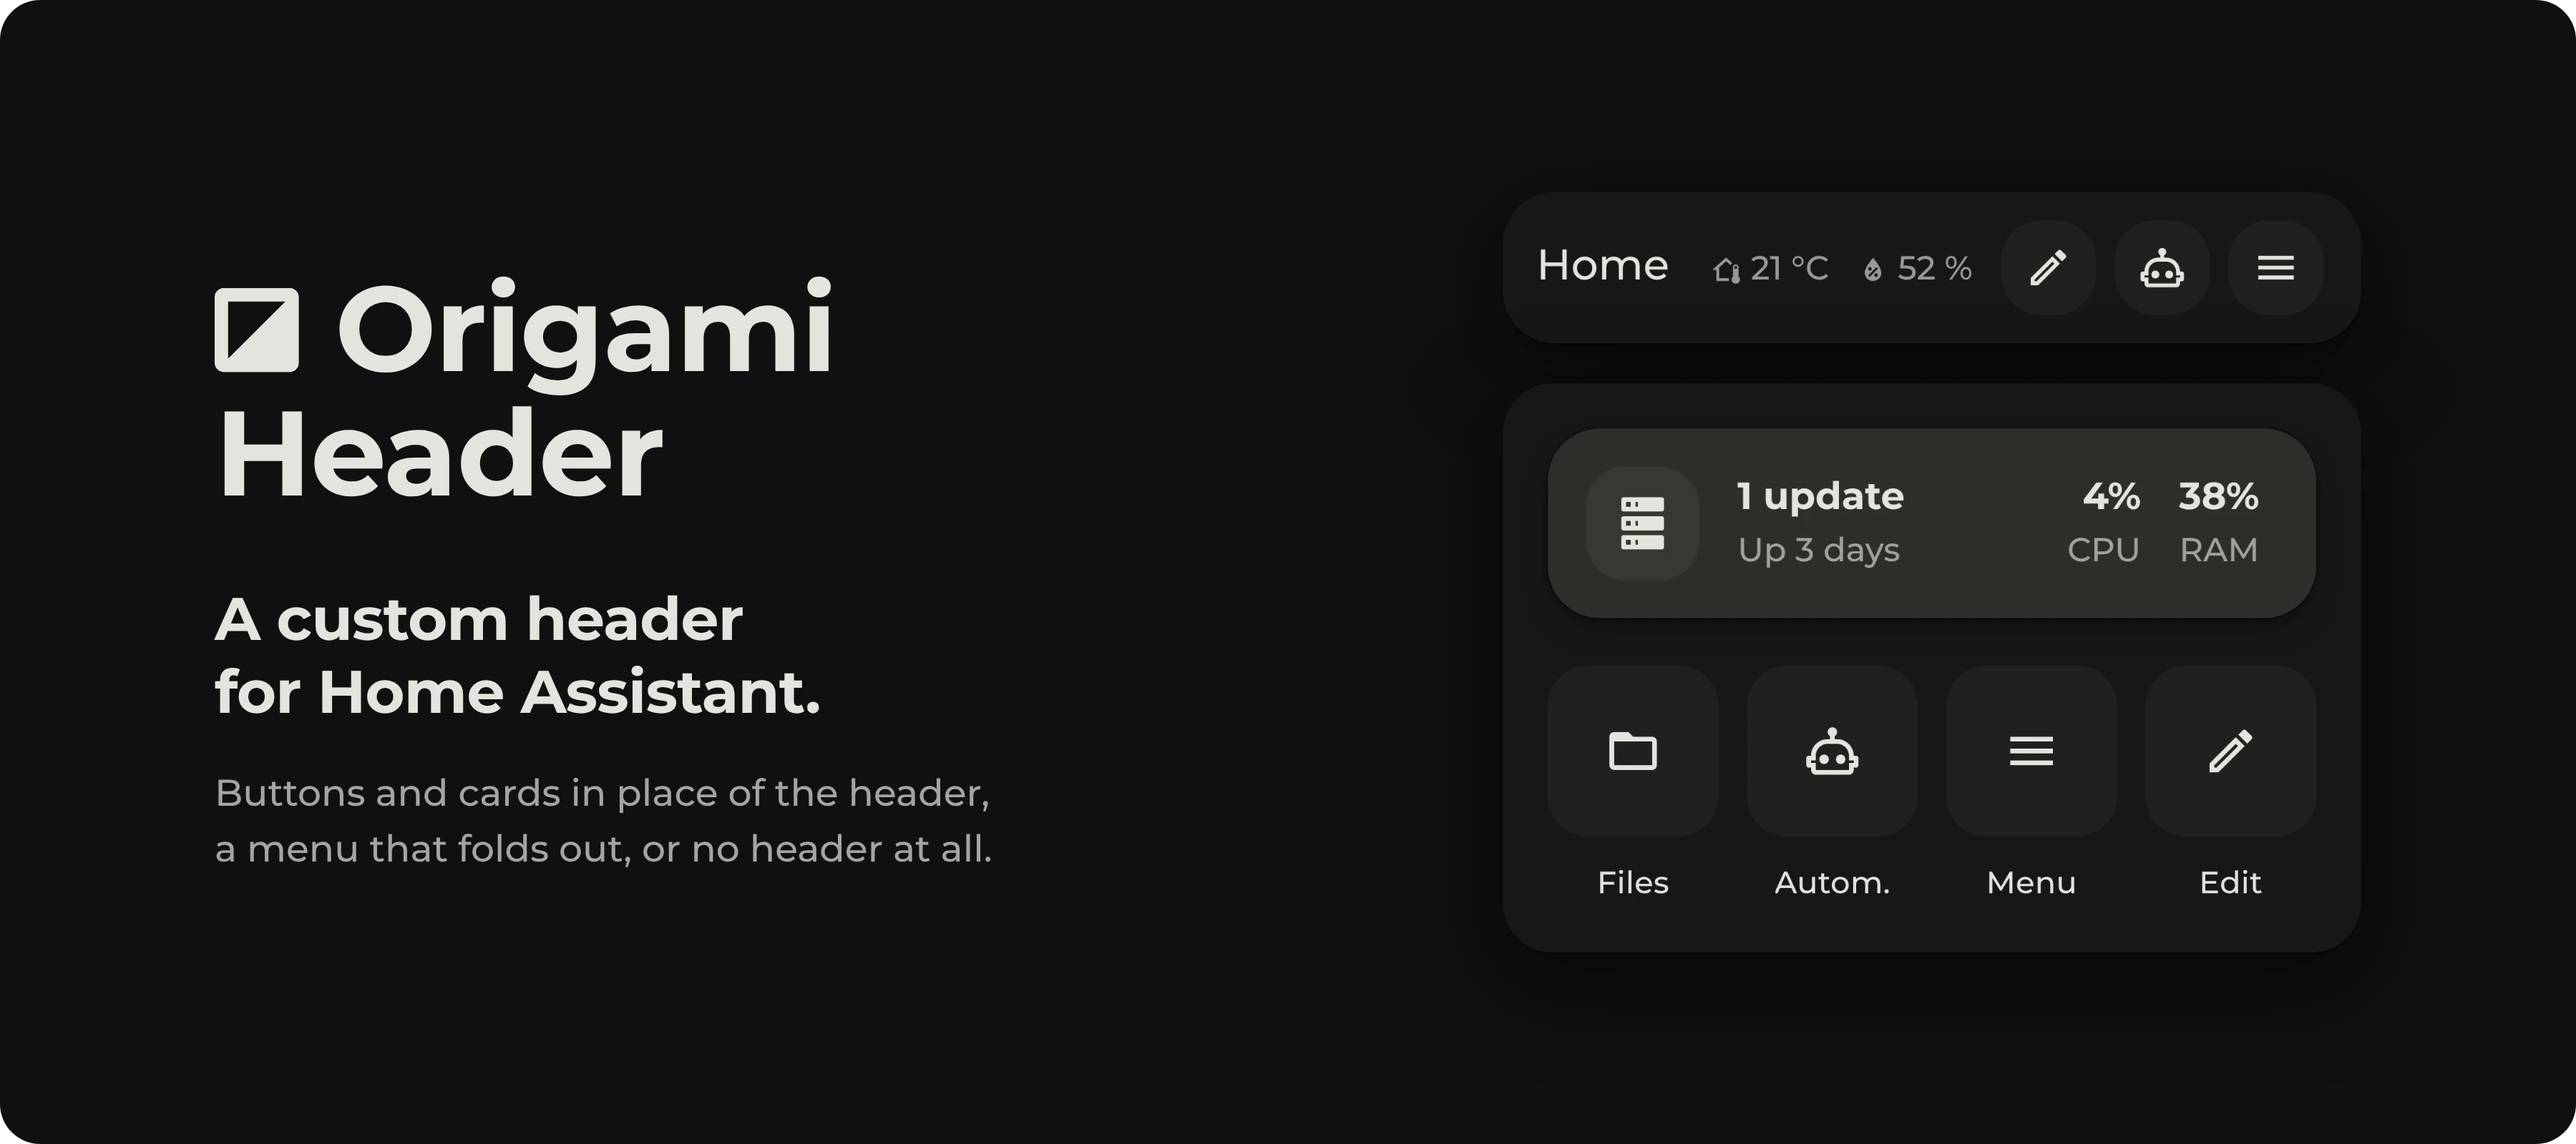
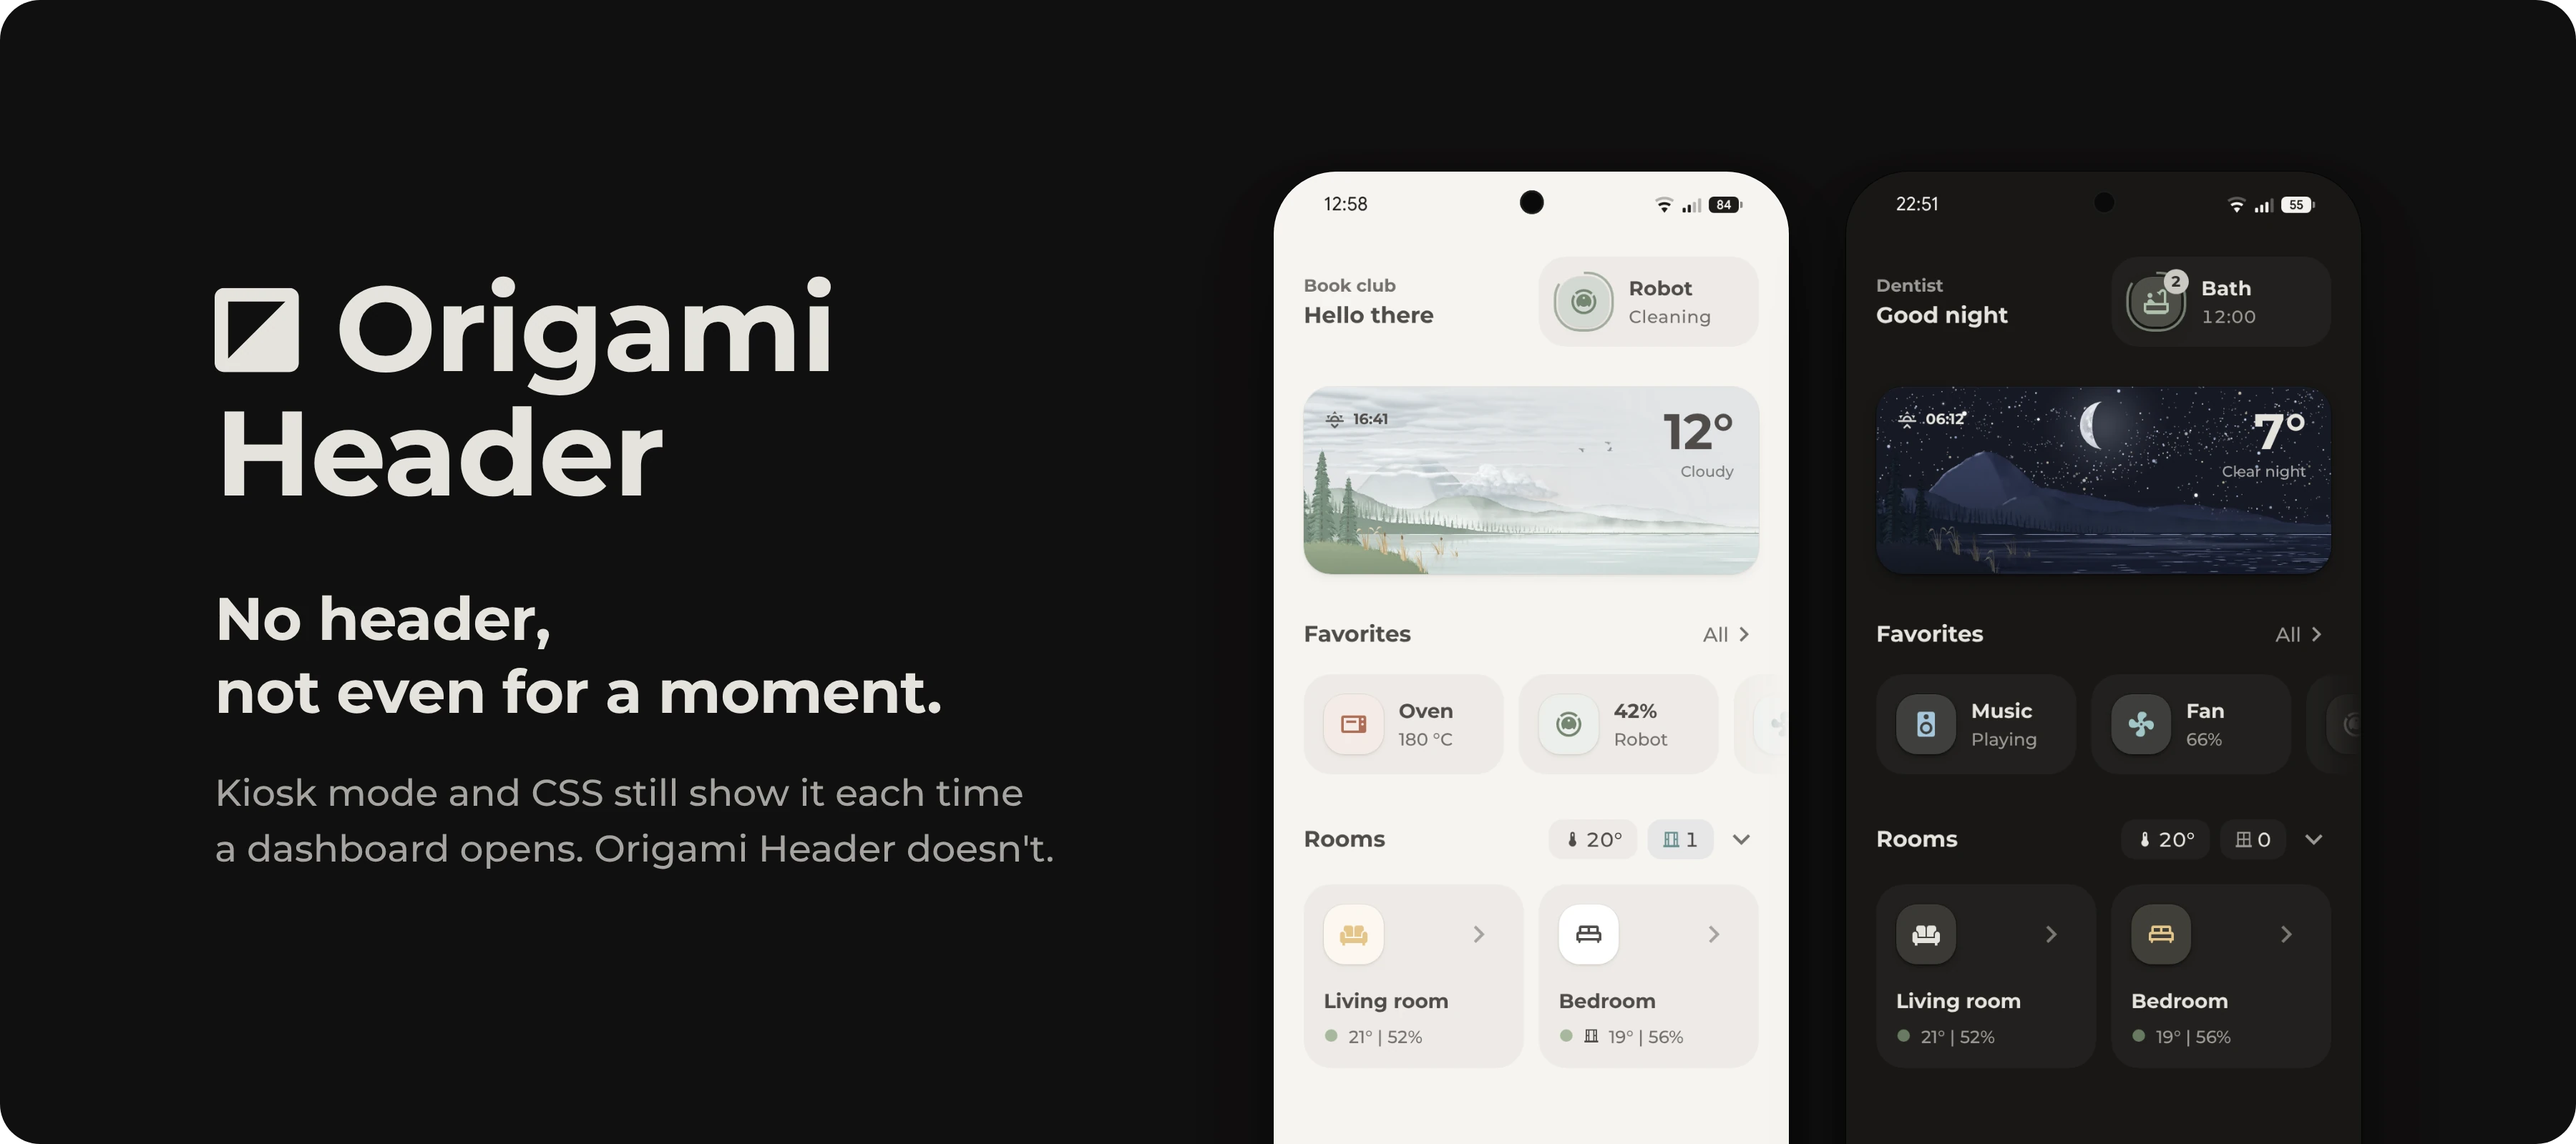
Lead with hiding the header

diff --git a/README.md b/README.md
@@ -5,13 +5,13 @@
 
 <picture>
   <source media="(prefers-color-scheme: dark)" srcset="https://raw.githubusercontent.com/hazymorning/origami_header/main/images/hero-dark.webp">
-  <img alt="Origami Header with a custom header and the menu that folds out" src="https://raw.githubusercontent.com/hazymorning/origami_header/main/images/hero-light.webp">
+  <img alt="Origami Header on two phones, with the dashboard right at the top and no header, in light and dark mode" src="https://raw.githubusercontent.com/hazymorning/origami_header/main/images/hero-light.webp">
 </picture>
 
-Origami Header replaces the dashboard header in Home Assistant with buttons and cards of one's own. They form a new header or a menu that folds out at a tap on a card, or the header goes away completely.
+Origami Header hides the dashboard header in Home Assistant without the flash. Kiosk mode and CSS still show the header for a moment every time a dashboard opens. With Origami Header, it never appears.
 
 > [!NOTE]
-> Home Assistant still has no proper way to hide the header. With kiosk mode or CSS, it shows up for a moment every time a dashboard opens. Origami Header avoids that, but it's a bit hacky and experimental.
+> Home Assistant has no proper way to hide the header, so Origami Header is a bit hacky and experimental.
 
 [Get started](#get-started) · [Modes](#modes) · [More](#more)
 
@@ -50,9 +50,12 @@ Without HACS, copy `origami-header.js` from the [latest release](https://github.
 <br>
 
 1. Edit a dashboard and add the **Origami Header** card to any view.
-2. Choose a mode.
+2. Choose **No header**, or one of the modes that put something in its place.
 
-The card changes the header of the whole dashboard and stays invisible itself. Only admins see the change, unless `all_users` is on. In edit mode the default header comes back, and edit mode opens from a button with `special: edit`, a card with the `origami_header: edit` action, or with `?edit=1` at the end of the address.
+The card changes the header of the whole dashboard and stays invisible itself.
+
+- Only admins see the change, unless `all_users` is on.
+- In edit mode, the default header comes back. Edit mode opens from a button with `special: edit`, a card with the `origami_header: edit` action, or with `?edit=1` at the end of the address.
 
 </details>
 
@@ -60,11 +63,17 @@ The card changes the header of the whole dashboard and stays invisible itself. O
 
 <sub>The images show the [Origami](https://github.com/hazymorning/origami) theme.</sub>
 
+### No header
+
+<img width="800" alt="The top of the Origami dashboard on a phone, with no header above the first card, in light and dark mode" src="https://raw.githubusercontent.com/hazymorning/origami_header/main/images/hidden.webp">
+
+The header is gone, and the dashboard starts right at the top. This is what Origami Header was made for.
+
 ### Custom header
 
 <img width="800" alt="A custom header with the title Home, the temperature and humidity, and buttons for edit mode, automations and the sidebar, in light and dark mode" src="https://raw.githubusercontent.com/hazymorning/origami_header/main/images/header.webp">
 
-Cards and buttons of one's own in the header's place. When the buttons don't fit, they move to a second row.
+Cards and buttons in the header's place. When the buttons don't fit, they move to a second row.
 
 <details>
 <summary><b>The header in the image</b></summary>
@@ -148,10 +157,6 @@ Besides `toggle`, the action takes `open`, `close`, `edit` and `sidebar`. The me
 
 </details>
 
-### No header
-
-No header at all, so the dashboard starts right at the top.
-
 ## More
 
 <details>
@@ -169,7 +174,7 @@ The visual editor covers every option, and in edit mode the card shows a preview
 | `position` | `top` | The edge the menu opens from, `top` or `bottom` |
 | `layout` | `list` | The buttons in the menu, `list` with two columns or `grid` with four |
 | `all_users` | `false` | Shows it to everyone. Otherwise other users get no header at all. |
-| `css` | | Styles of one's own, see Styling below |
+| `css` | | Custom styles, see Styling below |
 
 Each button takes `name`, `icon`, `color` (a theme color like `amber` or any CSS color) and `tap_action`, `hold_action` and `double_tap_action`. Instead of a tap action, `special: edit` turns on edit mode and `special: sidebar` opens or closes the sidebar. Only admins see the edit button.
 
